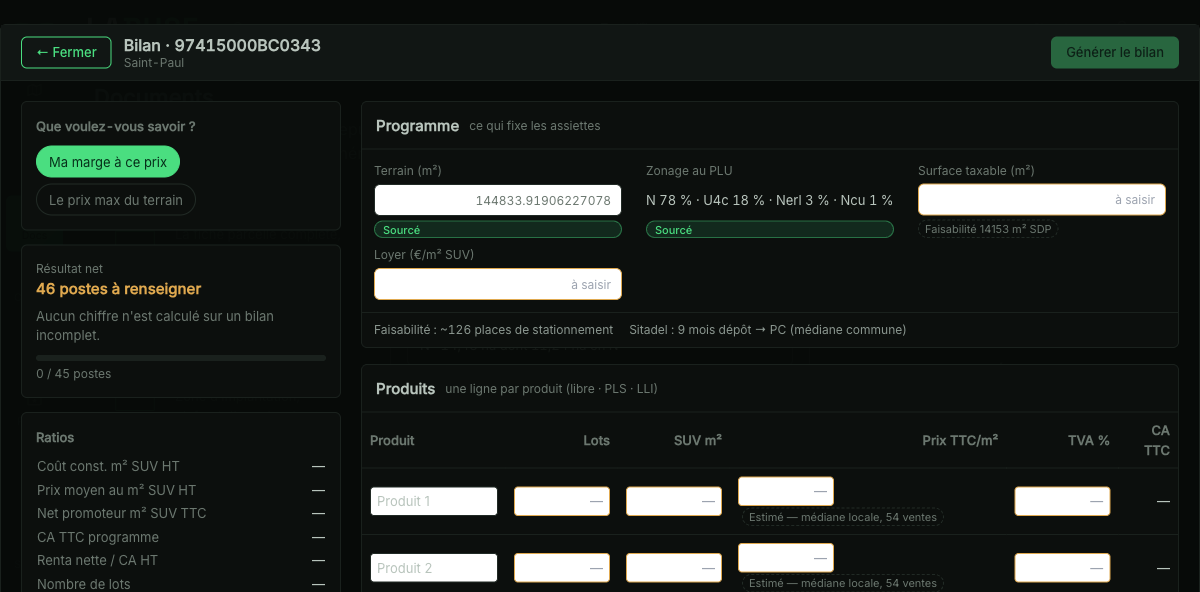
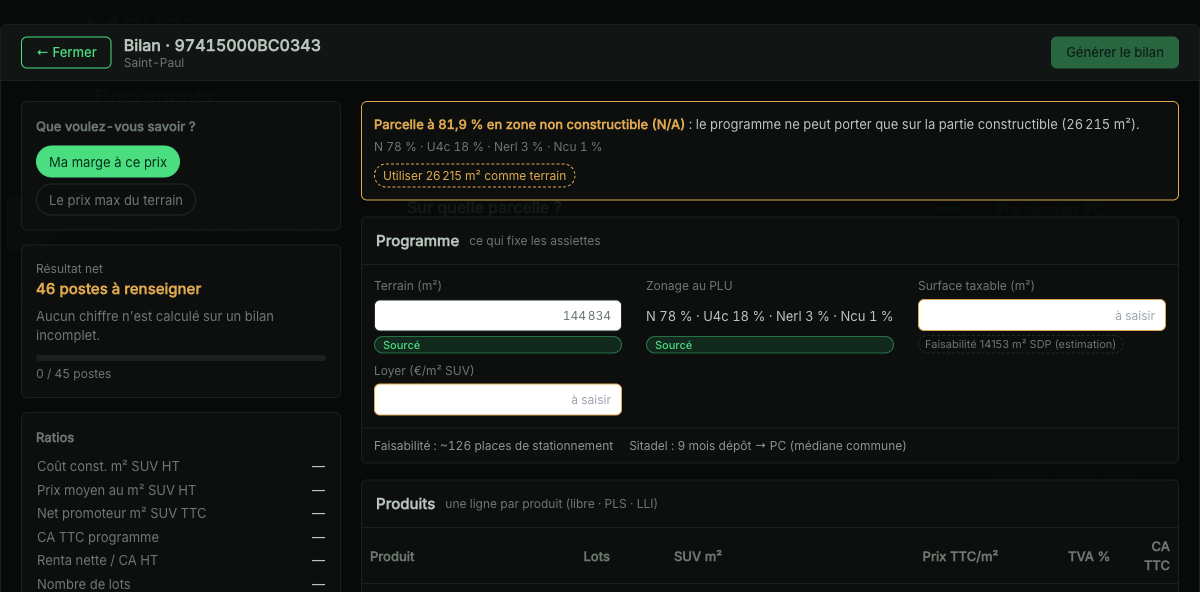
BILAN-1 — retours Vic sur la capture BC0343
1. Terrain arrondi au m² + séparateur de milliers PARTOUT : arrondi à la source
   (reperes._surface), affiché « 144 834 » (écran fmtNum, PDF _eur, Excel format).
2. Bandeau zone à cheval : part non constructible (familles ≠ U/AU) signalée en
   tête du bilan (« Parcelle à 81,9 % en zone non constructible (N/A) : … partie
   constructible 26 215 m² ») + répartition par zone + repère « Utiliser X m²
   comme terrain » (terrain × part U/AU). sourcee expose zonage_parts,
   non_constructible_pct, constructible_m2.
3. Surface taxable : jamais pré-remplie — vide + repère cliquable, étiqueté
   « (estimation) » comme les autres.
4. Alertes de vraisemblance NON bloquantes (moteur.vraisemblance) : coût de
   construction hors 1 000–5 000 €/m² SUV, marge > 25 % du CA HT → ligne ambrée
   « valeur inhabituelle, à vérifier » (poste + résultat) ; le bilan se calcule
   quand même. Test dédié.
5. Nouvelles captures BC0343 (ecran-bilan-vide/complet).

pytest bilan 62 · tsc0 · vitest237. Capture prise sur 8820 (8810 idle, sans
contention), serveur arrêté après ; 8810 (RECETTE-PROD-1) jamais touché.

diff --git a/frontend/src/components/fiche/BilanEcran.tsx b/frontend/src/components/fiche/BilanEcran.tsx
@@ -110,6 +110,12 @@ export function BilanEcran({ idu, onClose, onGenerated }:
     for (const l of res?.lignes ?? []) m[l.id] = l
     return m
   }, [res])
+  // alertes de vraisemblance (non bloquantes) par cible
+  const vrais = useMemo(() => {
+    const m: Record<string, string> = {}
+    for (const v of res?.vraisemblance ?? []) m[v.cible] = v.message
+    return m
+  }, [res])
 
   if (isLoading) return <Overlay onClose={onClose}><div className="p-6 text-txt-mut">Chargement du bilan…</div></Overlay>
   if (error || !modele || !entrees) return <Overlay onClose={onClose}><div className="p-6 text-amber">Bilan indisponible sur cette parcelle.</div></Overlay>
@@ -210,6 +216,7 @@ export function BilanEcran({ idu, onClose, onGenerated }:
               <div className="h-full bg-mint" style={{ width: res ? `${Math.round((res.postes_renseignes / Math.max(1, res.total_postes)) * 100)}%` : '0%' }} />
             </div>
             <div className="mt-1 text-[12px] text-txt-mut">{prog}</div>
+            {vrais['marge'] && <div className="mt-2 border-l-2 border-amber pl-2 text-[12px] text-amber">{vrais['marge']}</div>}
           </section>
 
           {res?.ratios && (
@@ -229,6 +236,20 @@ export function BilanEcran({ idu, onClose, onGenerated }:
 
         {/* corps */}
         <main className="grid gap-4">
+          {/* Bandeau zone à cheval : partie non constructible (familles ≠ U/AU) */}
+          {modele.sourcee.non_constructible_pct > 0 && (
+            <div className="rounded-md border border-amber bg-surface-1 p-3 text-[13px]">
+              <b className="text-amber">Parcelle à {fmtNum(modele.sourcee.non_constructible_pct)} % en zone non constructible (N/A)</b>
+              <span className="text-txt"> : le programme ne peut porter que sur la partie constructible{modele.sourcee.constructible_m2 != null ? ` (${fmtNum(modele.sourcee.constructible_m2)} m²)` : ''}.</span>
+              {modele.sourcee.zonage && <div className="mt-1 text-[12px] text-txt-mut">{modele.sourcee.zonage}</div>}
+              {modele.sourcee.constructible_m2 != null && (
+                <button className="mt-2 rounded-full border border-dashed border-amber px-2 py-0.5 text-[12px] text-amber hover:bg-amber hover:text-mint-on"
+                  onClick={() => { majProgramme({ terrain: modele.sourcee.constructible_m2 }); bump() }}>
+                  Utiliser {fmtNum(modele.sourcee.constructible_m2)} m² comme terrain
+                </button>
+              )}
+            </div>
+          )}
           {/* Programme */}
           <Carte titre="Programme" sous="ce qui fixe les assiettes">
             <div className="grid grid-cols-2 gap-x-6 gap-y-2 p-3 md:grid-cols-3">
@@ -305,7 +326,7 @@ export function BilanEcran({ idu, onClose, onGenerated }:
                 {modele.blocs.map((b) => {
                   const tot = res?.blocs.find((x) => x.id === b.id)
                   return (
-                    <BlocLignes key={b.id} bloc={b} tot={tot} entrees={entrees} ligne={ligne} rev={rev}
+                    <BlocLignes key={b.id} bloc={b} tot={tot} entrees={entrees} ligne={ligne} rev={rev} vrais={vrais}
                       reperePoste={reperePoste} adopterRepere={adopterRepere} majPoste={majPoste} majPosteProg={majPosteProg} />
                   )
                 })}
@@ -365,7 +386,7 @@ function ChampNum({ label, value, source, repere, revKey, onChange, onPick }: {
   return (
     <label className="grid gap-1 text-[12px] text-txt-mut">{label}
       <input key={revKey} className={`h-8 rounded-md border bg-surface px-2.5 text-right tabular-nums ${value == null ? 'border-amber' : 'border-line-2'}`}
-        defaultValue={value ?? ''} placeholder="à saisir" onChange={(e) => onChange(parseNum(e.target.value))} />
+        defaultValue={value == null ? '' : fmtNum(value)} placeholder="à saisir" onChange={(e) => onChange(parseNum(e.target.value))} />
       {source && <Badge ton="vert">Sourcé</Badge>}
       {!source && value == null && repere && (
         <button className="justify-self-start rounded-full border border-dashed border-line-2 px-1.5 text-[11px] text-txt-mut hover:bg-mint hover:text-mint-on"
@@ -389,12 +410,13 @@ function CellNum({ value, onChange, revKey }: { value: number | null; onChange: 
   )
 }
 
-function BlocLignes({ bloc, tot, entrees, ligne, rev, reperePoste, adopterRepere, majPoste, majPosteProg }: {
+function BlocLignes({ bloc, tot, entrees, ligne, rev, vrais, reperePoste, adopterRepere, majPoste, majPosteProg }: {
   bloc: BilanModele['blocs'][number]
   tot: BilanResultat['blocs'][number] | undefined
   entrees: BilanEntrees
   ligne: Record<string, BilanResultat['lignes'][number]>
   rev: number
+  vrais: Record<string, string>
   reperePoste: (p: BilanPoste) => { valeur: number; label: string } | null
   adopterRepere: (p: BilanPoste) => void
   majPoste: (id: string, patch: Partial<BilanSaisie>) => void
@@ -417,7 +439,8 @@ function BlocLignes({ bloc, tot, entrees, ligne, rev, reperePoste, adopterRepere
         const estSansObjet = s.etat === 'sans_objet'
         return (
           <tr key={p.id} className="border-b border-line">
-            <td className="p-2">{p.libelle}{p.sub && <small className="block text-txt-dim"> {p.sub}</small>}</td>
+            <td className="p-2">{p.libelle}{p.sub && <small className="block text-txt-dim"> {p.sub}</small>}
+              {vrais[p.id] && <small className="block text-amber">{vrais[p.id]}</small>}</td>
             <td className="p-2 tabular-nums text-txt-mut">{l?.assiette_valeur != null ? fmtEur(l.assiette_valeur) : (p.mode === 'forfait' ? 'forfait' : '—')}
               {p.besoin_assiette && !estSansObjet && (
                 <input key={rev} className="ml-1 w-24 rounded border border-amber bg-surface px-1 py-0.5 text-right"

diff --git a/frontend/src/lib/api.ts b/frontend/src/lib/api.ts
@@ -2669,7 +2669,13 @@ export interface BilanModele {
   produit_modele: { champs: { id: string; libelle: string; unite: string; tva?: string }[]; repere: string }
   programme: Record<string, unknown>[]
   blocs: BilanBloc[]
-  sourcee: { idu: string; parcel_id: number | null; commune: string | null; terrain: number | null; zonage: string | null; prix_achat_dvf: { valeur: number; date: string; label: string } | null }
+  sourcee: {
+    idu: string; parcel_id: number | null; commune: string | null
+    terrain: number | null; zonage: string | null
+    zonage_parts: { zone: string; fam: string; pct: number }[]
+    non_constructible_pct: number; constructible_m2: number | null
+    prix_achat_dvf: { valeur: number; date: string; label: string } | null
+  }
   reperes_publics: Record<string, { valeur: number; n?: number; label: string; source: string; parkings?: number | null; logements?: number[] | null }>
   ratios_compte: Record<string, { valeur: number; tva: number | null }>
 }
@@ -2688,6 +2694,7 @@ export interface BilanLigne {
 }
 export interface BilanResultat {
   complet: boolean; manquants: string[]; total_postes: number; postes_renseignes: number
+  vraisemblance: { cible: string; message: string }[]
   lignes: BilanLigne[]
   blocs: { id: string; titre: string; ht: number; tva: number; ttc: number; complet: boolean; manquants: number }[]
   produits: Record<string, unknown>[]

diff --git a/src/labuse/bilan/reperes.py b/src/labuse/bilan/reperes.py
@@ -39,27 +39,39 @@ def _parcelle(db: Session, idu: str) -> tuple[int, str] | None:
     return _sans_poison(db, _q)
 
 
-def _surface(db: Session, idu: str) -> float | None:
+def _surface(db: Session, idu: str) -> int | None:
+    """Surface du terrain, ARRONDIE au m² (le cadastre la sert en flottant)."""
+
     def _q():
         v = db.execute(
             text("SELECT surface_m2 FROM parcels WHERE idu = :i"), {"i": idu}
         ).scalar()
-        return float(v) if v is not None else None
+        return round(float(v)) if v is not None else None
 
     return _sans_poison(db, _q)
 
 
-def _zonage(db: Session, parcel_id: int) -> str | None:
+def _zonage_detail(db: Session, parcel_id: int) -> dict | None:
+    """Zonage servi : libellé + répartition par zone (parts) + part non
+    constructible (familles ≠ U/AU)."""
+
     def _q():
-        from ..faisabilite.zone_servie import zone_dominante
+        from ..faisabilite.zone_servie import FAMILLES_CONSTRUCTIBLES, zone_dominante
 
         z = zone_dominante(db, parcel_id)
         if not z or not z.zone:
             return None
-        parts = getattr(z, "parts", None) or []
+        parts = [
+            {"zone": p["zone"], "fam": p["fam"], "pct": round(float(p["pct"]), 1)}
+            for p in (getattr(z, "parts", None) or [])
+        ]
         if len(parts) > 1:
-            return " · ".join(f"{p['zone']} {round(p['pct'])} %" for p in parts)
-        return str(z.zone)
+            label = " · ".join(f"{p['zone']} {round(p['pct'])} %" for p in parts)
+        else:
+            label = str(z.zone)
+        nc = round(sum(p["pct"] for p in parts if p["fam"] not in FAMILLES_CONSTRUCTIBLES), 1)
+        c = round(sum(p["pct"] for p in parts if p["fam"] in FAMILLES_CONSTRUCTIBLES), 1)
+        return {"label": label, "parts": parts, "non_constructible_pct": nc, "constructible_pct": c}
 
     return _sans_poison(db, _q)
 
@@ -70,12 +82,25 @@ def sources_parcelle(db: Session, idu: str) -> dict[str, Any]:
     pc = _parcelle(db, idu)
     parcel_id = pc[0] if pc else None
     commune = pc[1] if pc else None
+    terrain = _surface(db, idu)  # m² arrondi — Sourcé (cadastre)
+    zd = _zonage_detail(db, parcel_id) if parcel_id else None
+    nc_pct = zd["non_constructible_pct"] if zd else 0.0
+    c_pct = zd["constructible_pct"] if zd else 100.0
+    # terrain constructible = terrain × part U/AU, seulement s'il y a du non constructible
+    constructible_m2 = (
+        round(terrain * c_pct / 100.0)
+        if terrain is not None and nc_pct > 0
+        else None
+    )
     return {
         "idu": idu,
         "parcel_id": parcel_id,
         "commune": commune,
-        "terrain": _surface(db, idu),  # m² — Sourcé (cadastre)
-        "zonage": _zonage(db, parcel_id) if parcel_id else None,  # Sourcé (PLU)
+        "terrain": terrain,
+        "zonage": zd["label"] if zd else None,  # Sourcé (PLU)
+        "zonage_parts": zd["parts"] if zd else [],
+        "non_constructible_pct": nc_pct,
+        "constructible_m2": constructible_m2,
         "prix_achat_dvf": _prix_achat_dvf(db, parcel_id) if parcel_id else None,
     }
 
@@ -179,8 +204,8 @@ def reperes_publics(db: Session, idu: str, sourcee: dict) -> dict[str, dict]:
                 return None
             return {
                 "valeur": float(sdp),
-                "label": f"Faisabilité {round(float(sdp)):g} m² SDP",
-                "source": "faisabilité LABUSE",
+                "label": f"Faisabilité {round(float(sdp)):g} m² SDP (estimation)",
+                "source": "faisabilité LABUSE (estimation, à confirmer)",
                 "parkings": d.get("stationnement_places"),
                 "logements": d.get("logements"),
             }

diff --git a/src/labuse/bilan/moteur.py b/src/labuse/bilan/moteur.py
@@ -136,6 +136,7 @@ class ResultatBilan:
     total_postes: int
     postes_renseignes: int
     manquants: list[str]
+    vraisemblance: list[dict[str, str]]  # alertes non bloquantes [{cible, message}]
 
     @property
     def complet(self) -> bool:
@@ -406,6 +407,7 @@ class Moteur:
                 prix_max_m2 = prix_max / e.programme.terrain
 
         ratios = self._ratios(lignes, blocs_tot, pt, ctx, complet, res_net)
+        vrais = self._vraisemblance(lignes, marge, complet)
 
         return ResultatBilan(
             lignes=lignes,
@@ -432,7 +434,27 @@ class Moteur:
             total_postes=total_postes,
             postes_renseignes=renseignes,
             manquants=manquants,
+            vraisemblance=vrais,
         )
+
+    def _vraisemblance(self, lignes, marge, complet) -> list[dict[str, str]]:
+        """Alertes de vraisemblance NON bloquantes (le bilan se calcule quand même) :
+        une valeur hors des bornes usuelles est signalée « à vérifier », jamais corrigée."""
+        out: list[dict[str, str]] = []
+        constr = next((ln for ln in lignes if ln.id == "constr"), None)
+        if constr and constr.etat != SANS_OBJET and constr.taux_ou_montant is not None:
+            v = constr.taux_ou_montant  # €/m² de SUV (poste en mode unit)
+            if v < 1000 or v > 5000:
+                out.append({
+                    "cible": "constr",
+                    "message": "Coût de construction inhabituel (hors 1 000–5 000 €/m² SUV), à vérifier.",
+                })
+        if complet and marge is not None and marge > 0.25:
+            out.append({
+                "cible": "marge",
+                "message": "Marge inhabituellement élevée (> 25 % du CA HT), à vérifier.",
+            })
+        return out
 
     def _prix_max_terrain(self, e: EntreesBilan, ca_ht: float | None) -> float | None:
         """Prix d'achat du terrain maximal pour atteindre la marge cible.

diff --git a/tests/test_bilan_moteur.py b/tests/test_bilan_moteur.py
@@ -155,6 +155,21 @@ def test_ht_tva_ttc_coherents_et_sans_objet():
     assert edf.ht == 0 and edf.tva == 0 and not edf.manquant
 
 
+def test_vraisemblance_non_bloquante():
+    """Une valeur hors bornes usuelles est SIGNALÉE (ambre), jamais corrigée ni bloquante."""
+    base = EntreesBilan(
+        programme=Programme(terrain=1746, surface_taxable=2560),
+        produits=[Produit("Libre", 46, 2560, 4800, 0.085)],
+        postes={"constr": SaisiePoste(2300, SAISI)},  # dans les bornes
+    )
+    assert Moteur().calculer(base).vraisemblance == []
+    base.postes["constr"] = SaisiePoste(6000, SAISI)  # coût hors 1 000–5 000
+    v = Moteur().calculer(base).vraisemblance
+    assert any(a["cible"] == "constr" for a in v)
+    base.postes["constr"] = SaisiePoste(300, SAISI)  # trop bas
+    assert any(a["cible"] == "constr" for a in Moteur().calculer(base).vraisemblance)
+
+
 def test_apport_est_en_base_ttc():
     """La commission d'apport (3 %) est toutes taxes, ramenée HT."""
     e = EntreesBilan(

diff --git a/src/labuse/api/bilan.py b/src/labuse/api/bilan.py
@@ -162,6 +162,7 @@ def _resultat_dict(r: ResultatBilan) -> dict:
     return {
         "complet": r.complet,
         "manquants": r.manquants,
+        "vraisemblance": r.vraisemblance,
         "total_postes": r.total_postes,
         "postes_renseignes": r.postes_renseignes,
         "lignes": [

diff --git a/docs/audit-2026-10/bilan-1/BILAN-1.md b/docs/audit-2026-10/bilan-1/BILAN-1.md
@@ -143,3 +143,19 @@ badges d'état, Total 2 271 464 € TTC) + `bilan-pdf-synthese-3.png` (résultat
 **Ancien Financier backend** (`financier_bilan.py`, `financier_questionnaire.py`, routes
 `/financier/*`) **laissé en place** (no élargissement) ; seule la porte client bascule
 sur le nouveau bilan. Démontage = un chantier dédié.
+
+## 9. Retours Vic sur la capture BC0343 — appliqués
+1. **Terrain arrondi au m² + séparateur de milliers partout** : arrondi à la source
+   (`reperes.sources_parcelle`), affiché « 144 834 » (écran `fmtNum`, PDF `_eur`, Excel
+   number-format) — plus de flottant brut.
+2. **Bandeau zone à cheval** : quand une part est non constructible (familles ≠ U/AU),
+   un bandeau ambré en tête du bilan : « Parcelle à 81,9 % en zone non constructible
+   (N/A) : le programme ne peut porter que sur la partie constructible (26 215 m²) » +
+   la répartition par zone + un bouton **« Utiliser 26 215 m² comme terrain »** (le
+   terrain constructible proposé en repère).
+3. **Surface taxable** : jamais pré-remplie — vide + repère cliquable comme les autres ;
+   le repère Faisabilité est étiqueté « (estimation) ».
+4. **Alertes de vraisemblance non bloquantes** (moteur) : coût de construction hors
+   1 000–5 000 €/m² SUV, marge > 25 % du CA HT → ligne ambrée « valeur inhabituelle,
+   à vérifier » (sur le poste et au résultat) ; le bilan se calcule quand même.
+5. Nouvelle capture `ecran-bilan-vide.png` + `ecran-bilan-complet.png` (BC0343).

diff --git a/docs/audit-2026-10/bilan-1/SUIVI.md b/docs/audit-2026-10/bilan-1/SUIVI.md
@@ -33,6 +33,13 @@ Venv : `~/Desktop/labuse/.venv/bin/python` ; imports LABUSE depuis ce worktree a
 
 **Tous les lots + les 4 décisions Vic avant merge sont faits.** Branche prête (pas de merge par CC).
 
+## Retours Vic sur la capture BC0343 (commit séparé) — FAITS
+1. Terrain arrondi au m² + séparateur partout (source `reperes._surface` round ; écran fmtNum, PDF _eur, Excel format).
+2. Bandeau zone à cheval (non constructible N/A) + répartition + repère « Utiliser X m² comme terrain » (constructible = terrain × part U/AU).
+3. Surface taxable jamais pré-remplie (vide + repère « (estimation) »).
+4. Alertes de vraisemblance non bloquantes (moteur `vraisemblance`) : coût const. hors 1 000–5 000 €/m², marge > 25 % → ligne ambrée.
+5. Nouvelles captures BC0343 (vide + complet). Boot 8820 (8810 idle, pas de contention), serveur arrêté après, 8810 jamais touché. pytest bilan 62 · tsc0 · vitest237.
+
 ## Étape 0 — faits
 - `pwd` = /Users/openclaw/Desktop/labuse-bilan1 ; branche `feat/bilan-1` ; arbre propre (seul le dossier bilan-1 non suivi).
 - Base `01965f44` = `origin/main` : contient DOCS-1 + DOCS-FIX-1. **TUILES-TX-1 (`2f6cf7ec`) n'est PAS mergé dans origin/main** (signalé à Vic) — sans effet sur ce mandat (fix tuiles MVT, hors périmètre bilan/docs).
